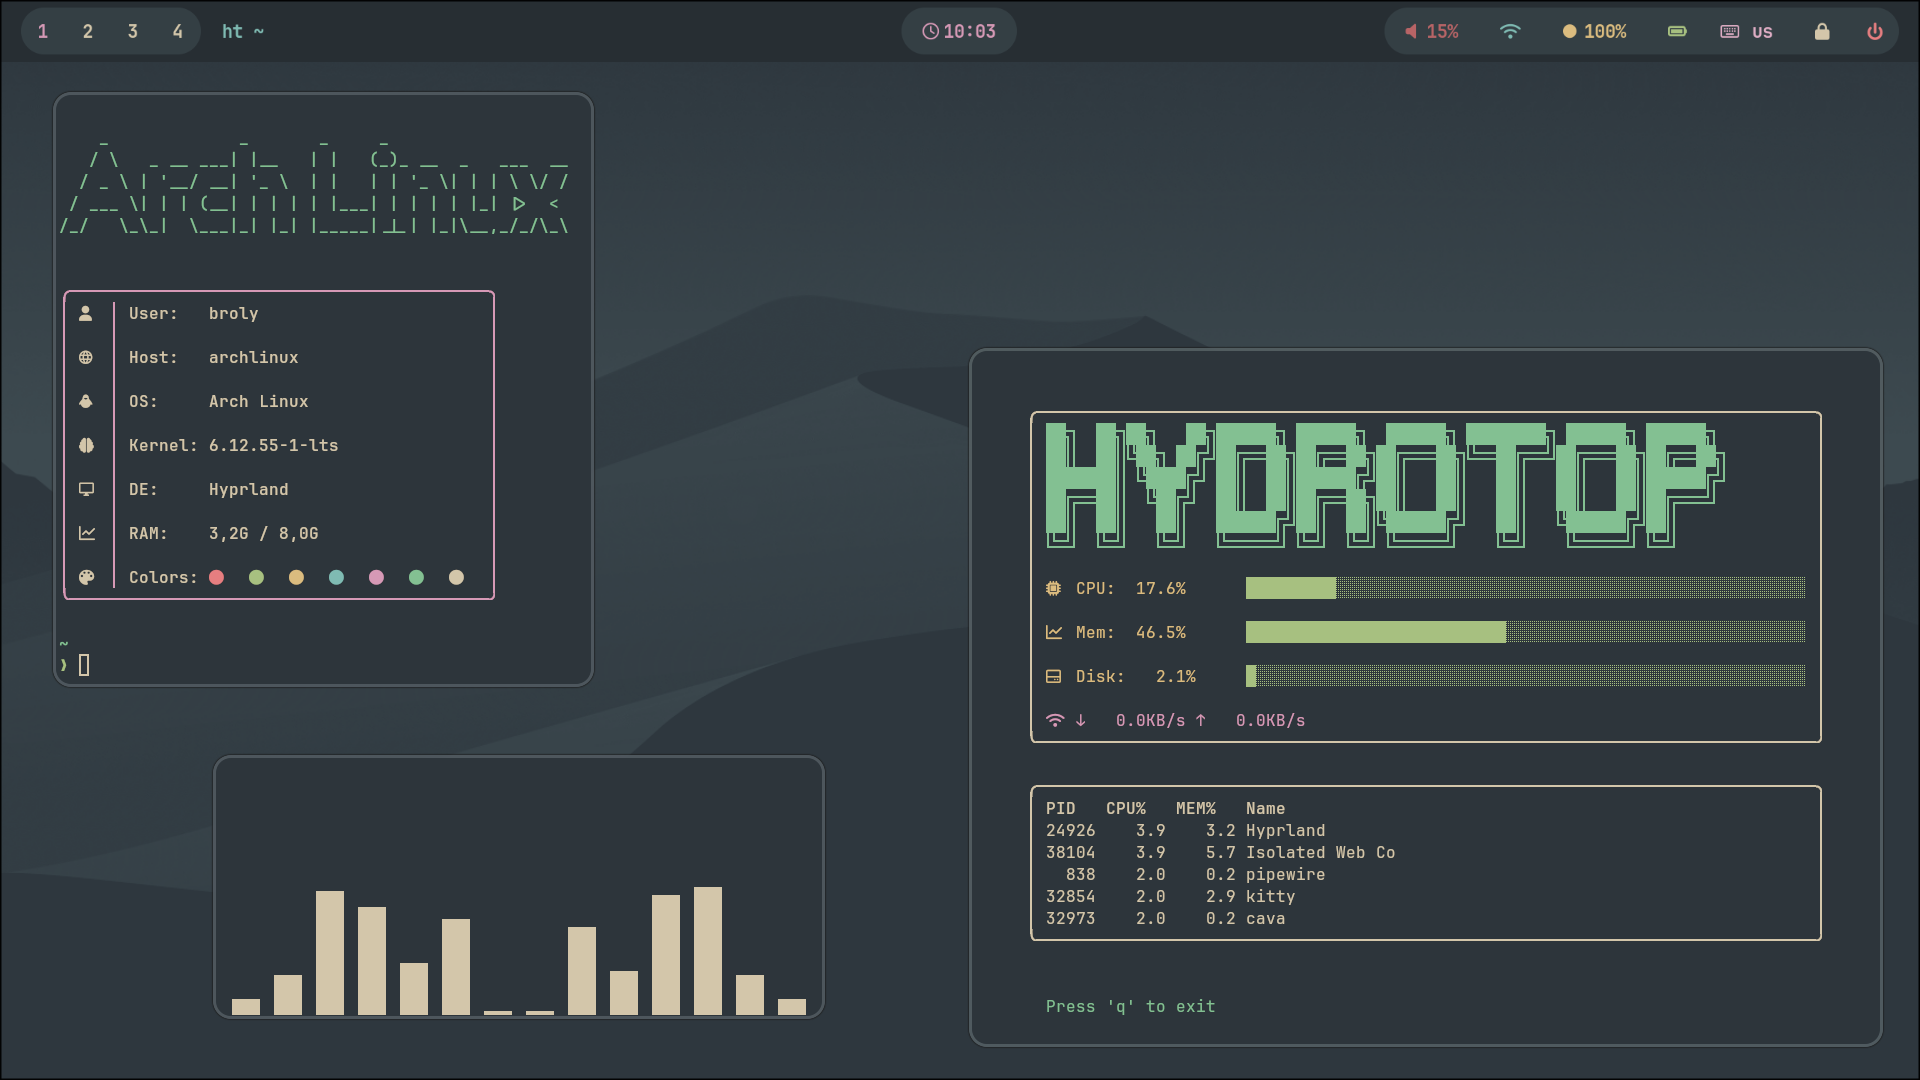
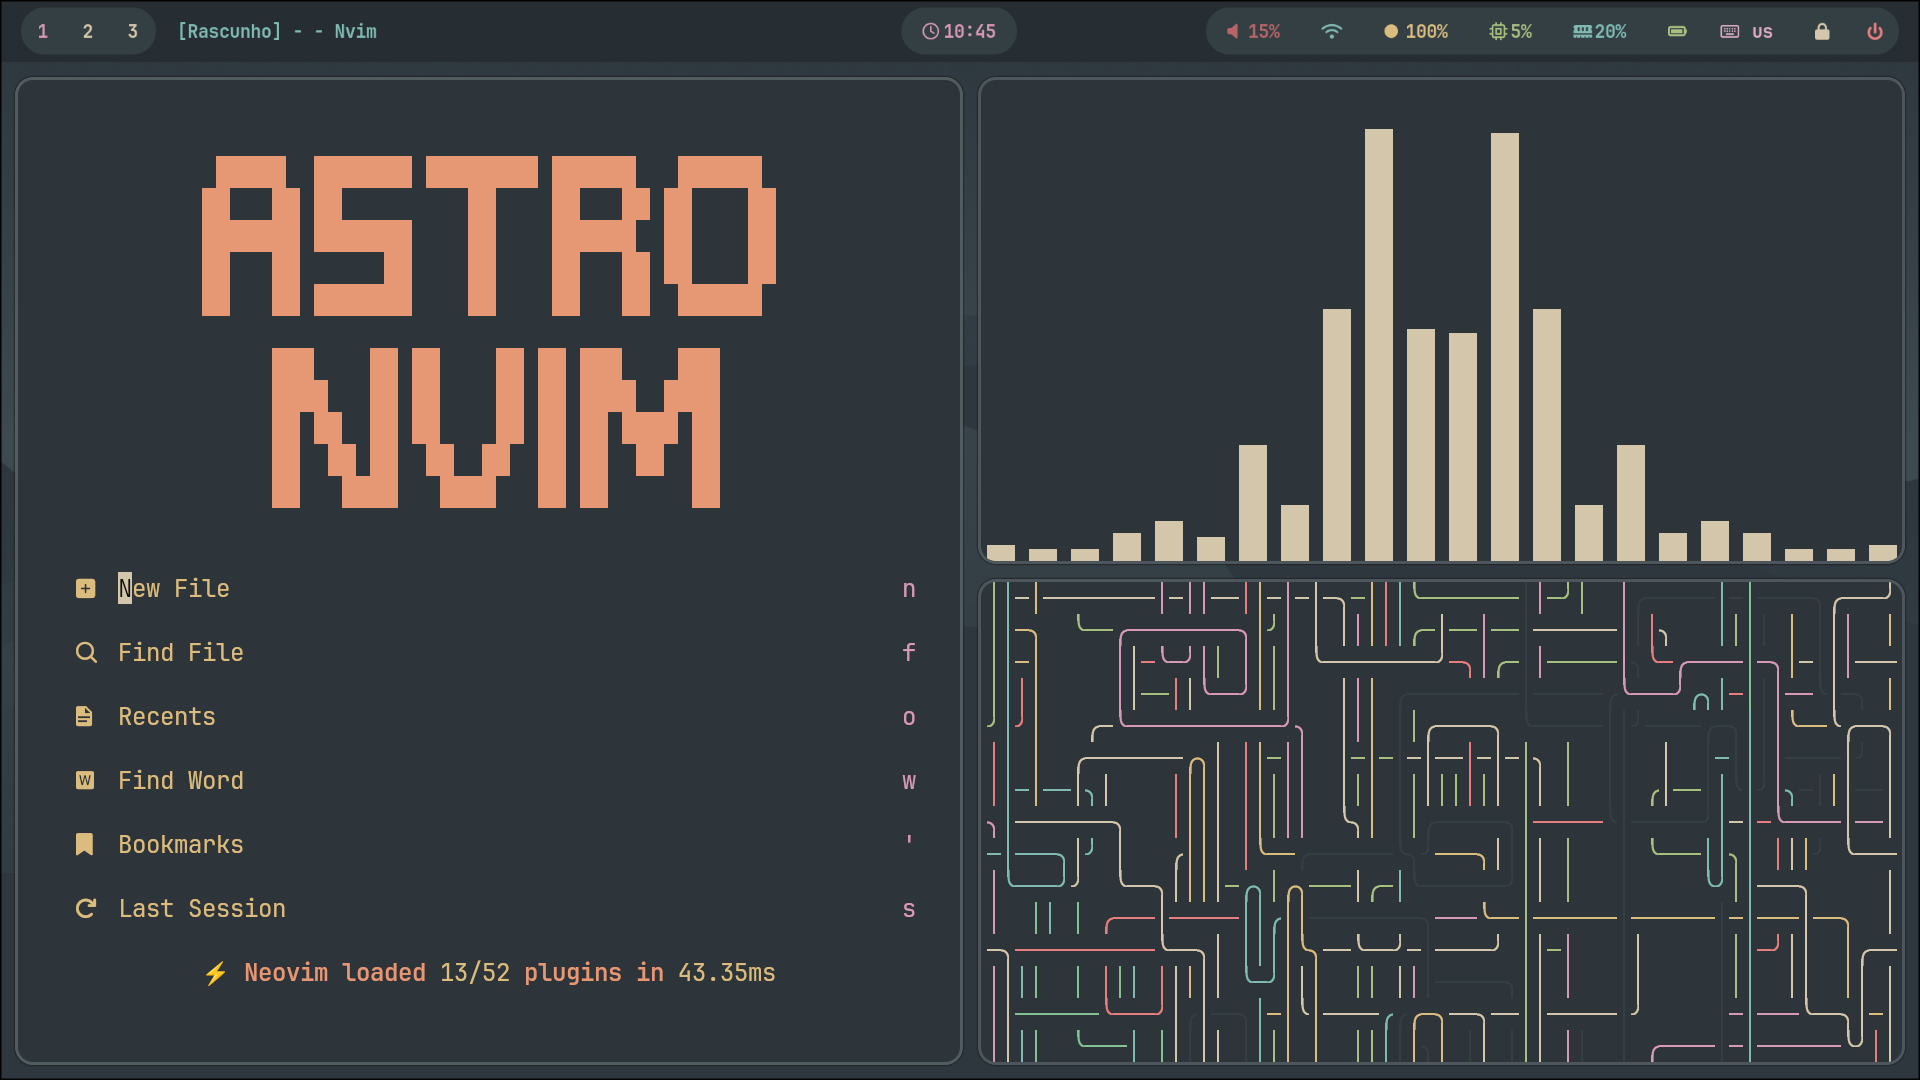
Update waybar: add cpu and memory modules

diff --git a/waybar/style.css b/waybar/style.css
@@ -63,6 +63,8 @@ window#waybar {
 #language,
 #custom-lock,
 #custom-wifi,
+#cpu,
+#memory,
 #custom-power {
     margin: 5px 0;
     padding: 0.5rem 1rem;
@@ -110,6 +112,14 @@ window#waybar.empty #window {
 
 #custom-wifi {
     color: @blue;
+}
+
+#cpu {
+   color: @green; 
+}
+
+#memory {
+    color: @sky;
 }
 
 #custom-power {
